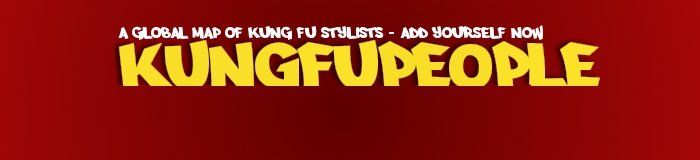
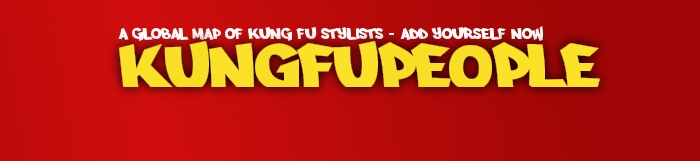
style changes

diff --git a/static/css/styles.css b/static/css/styles.css
@@ -64,12 +64,12 @@ body * {
 	float: left;
 	min-width: 1068px;
 	width: 100%;
-	height: 181px;
+	height: 161px;
 	margin: 0px 0px -90px 0px;
 	border-bottom: 15px solid #F3CF1A;
 	/* background-color: #990000; */
 	/* background-color: #990000; */
-	background: url("/img/headerback.png") no-repeat #a10606;
+	background: url("/img/headerback.jpg") no-repeat #a10606;
 }
 
 #nav {
@@ -110,7 +110,7 @@ body * {
 
 
 a.title {
-	margin: 41px 0 0 100px;
+	margin: 21px 0 0 100px;
 	height: 60px;
 	/*background: url('/img/logo.jpg') no-repeat 0 0;*/
 }
@@ -1310,13 +1310,26 @@ div.video {
 	margin-bottom: 40px;
 }
 
-#counter {
+div.counter-current {
 	float: right;
 	padding: 5px 20px 0 10px;
 	height: 45px;
 	width: auto;
-	margin: 0px 70px -45px 0;
-	background-color: #f3dd76;
+	margin: 0px 70px -45px 0px;
+	background-color: #F3CF1A;
+	color: #666;
+-moz-border-radius-bottomleft:10px;
+-moz-border-radius-bottomright:10px;
+}
+
+div.counter {
+	float: right;
+	padding: 5px 20px 0 10px;
+	height: 45px;
+	text-align: center;
+	width: auto;
+	margin: 0px 10px -45px 0px;
+	background: url('/img/counterback.png') repeat-x #f3dd76;
 	color: #666;
 	border-top: 1px solid white;
 -moz-border-radius-bottomleft:10px;

diff --git a/djangopeople/templates/style.html b/djangopeople/templates/style.html
@@ -40,9 +40,14 @@ div.bio a.edit {
         <div id="gmap">&nbsp;</div>
     </div>
 
-	<div id="counter">
+	<div class="counter-current">
 	<div class="number">{{ count }}</div> {% ifequal count 1 %}person does {% else %}people do {% endifequal %}{{ style }}!<br />
 	<a href="signup">Add yourself now!</a>
+	</div>
+
+	<div class="counter">
+	<div class="number"></div><strong>ZOOM!</strong> Find clubs, styles and people<br />
+	<a href="zoom">Try it out now.</a>
 	</div>
 {% endblock %}
 
@@ -73,7 +78,7 @@ div.bio a.edit {
         	<li class="horizontal-image-list">
        	        <div class="list-photo">
                 <a href="{{ person.get_absolute_url }}">
-                <img src="{% if person.photo %}{% thumbnail person.photo 40x40 crop %}{% else %}{% staticfile "/img/upload-a-photo-40.png" %}{% endif %}" alt="{{ person }}" width="40" height="40">
+                <img src="{% if person.photo %}{% thumbnail person.photo 40x40 crop %}{% else %}{% staticfile "/img/upload-a-photo-40.png" %}{% endif %}" alt="{{ person }}" width="40" height="40" title="{{ person.user.get_full_name }}">
 		</a>
 		</li>
         	{% endfor %}

diff --git a/djangopeople/templates/country.html b/djangopeople/templates/country.html
@@ -56,7 +56,7 @@ var bbox_east = {{ country.bbox_east }};
         	<li class="horizontal-image-list">
        	        <div class="list-photo">
                 <a href="{{ person.get_absolute_url }}">
-                <img src="{% if person.photo %}{% thumbnail person.photo 60x60 crop %}{% else %}{% staticfile "/img/upload-a-photo-60.png" %}{% endif %}" alt="{{ person }}" width="60" height="60">
+                <img src="{% if person.photo %}{% thumbnail person.photo 40x40 crop %}{% else %}{% staticfile "/img/upload-a-photo-40.png" %}{% endif %}" alt="{{ person }}" title="{{ person.user.get_full_name }}" width="40" height="40">
 		</a>
 		</li>
         	{% endfor %}

diff --git a/djangopeople/templates/profile.html b/djangopeople/templates/profile.html
@@ -241,7 +241,7 @@ div.bio a.edit {
                 
                 <li class="horizontal-image-list">
 		<div class="list-photo">
-                    <a href="{{ person.get_absolute_url }}"><img src="{% if person.photo %}{% thumbnail person.photo 60x60 crop %}{% else %}{% staticfile "/img/upload-a-photo-60.png" %}{% endif %}" alt="{{ person }}" title="{{ person }}"></a>
+                    <a href="{{ person.get_absolute_url }}"><img src="{% if person.photo %}{% thumbnail person.photo 40x40 crop %}{% else %}{% staticfile "/img/upload-a-photo-40.png" %}{% endif %}" alt="{{ person }}" title="{{ person }}"></a>
 
 		</div>
                 </li>

diff --git a/djangopeople/templates/club.html b/djangopeople/templates/club.html
@@ -84,7 +84,7 @@ div.bio a.edit {
         	<li class="horizontal-image-list">
        	        <div class="list-photo">
                 <a href="{{ person.get_absolute_url }}">
-                <img src="{% if person.photo %}{% thumbnail person.photo 60x60 crop %}{% else %}/img/upload-a-photo-60.png{% endif %}" alt="{{ person }}" width="60" height="60">
+                <img src="{% if person.photo %}{% thumbnail person.photo 40x40 crop %}{% else %}/img/upload-a-photo-40.png{% endif %}" alt="{{ person }}" width="40" height="40" title="{{ person.user.get_full_name }}">
 		</a>
 		</li>
         	{% endfor %}

diff --git a/djangopeople/templates/index.html b/djangopeople/templates/index.html
@@ -71,9 +71,13 @@ var people = [
         		<div id="gmap">&nbsp;</div>
 	</div>
 
-	<div id="counter">
-	<div class="number">{{ recent_people.count }}</div> people have already signed up!<br />
+	<div class="counter-current">
+	<div class="number">{{ recent_people.count }}</div> new people added!<br />
 	<a href="signup">Add yourself now!</a>
+	</div>
+	<div class="counter">
+	<div class="number"></div><strong>ZOOM!</strong> Find clubs, styles and people<br />
+	<a href="zoom">Try it out now.</a>
 	</div>
 {% endblock %}
 
